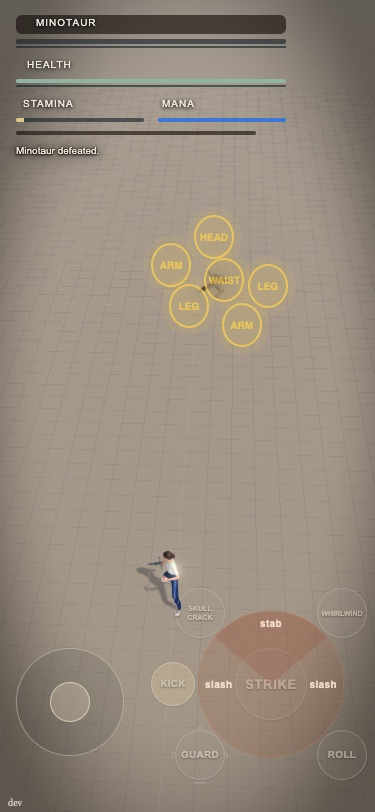
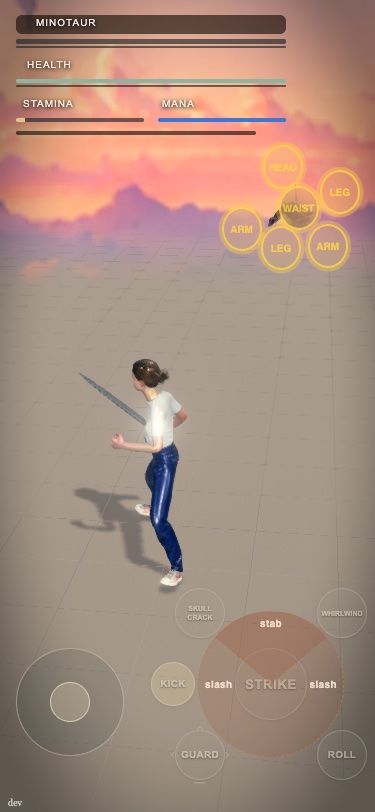
fx: skyview B is the default (stage.json views.default), ?skyview=v1 = the look before; melt tuned to the new camera, grid melts in the open ground, named floor order, honest comments, stills

diff --git a/src/fight/skyview.ts b/src/fight/skyview.ts
@@ -1,21 +1,28 @@
-// How much of the skyline shows (Dom 2026-10-27: love the image, the sand fills the screen, the camera stays as it is). Three link-chosen looks, every number a
-// row in data/stage.json `skyline.views` (validated by src/sim/validate.js checkSkyline): ?skyview=a fogs the far sand into the strip's horizon haze, ?skyview=b
-// melts the far sand to nothing (alpha) over a distance band so the lowered strip's cloud sea shows where it ends, ?skyview=c only lowers the strip. No link
-// = today's look, nothing here runs. The sim, the camera and the fight's framing are not touched: this is the fog, the floor's alpha and the strip's height.
+// How much of the skyline shows (Dom 2026-10-27: love the image, the sand fills the screen, the camera stays as it is; he picked B). Link-chosen looks, every number a
+// row in data/stage.json `skyline.views` (validated by src/sim/validate.js checkSkyline): `default` (B) is what the page draws with no link: the far sand melts to nothing, by
+// angle below the horizon, and the strip is lowered so its cloud sea shows where the sand ends. ?skyview=a only fogs the far sand into the strip's horizon haze, ?skyview=c only
+// lowers the strip, ?skyview=v1 (`v1` row) is the look before this: no melt, no lowering. The sim, the camera and the fight's framing are not touched: this is the fog, the
+// floor's alpha and the strip's height.
 import * as THREE from 'three';
 import STAGE from '../../data/stage.json' with { type: 'json' };
+import { SKYLINE_ORDER } from './skyline.ts';
 
 export type SkyViews = typeof STAGE.skyline.views;
 export type SkyView = SkyViews['variants']['a'];
 export const SKYVIEWS: SkyViews = STAGE.skyline.views;
 
-/** The variant the link asks for (?skyview=a|b|c), or null = today's look (no link, an unknown word, or a variant the rows do not have). */
+/** The floor draws right after the strip (which is first, SKYLINE_ORDER) and before every other transparent, so particles and trails stay over it. */
+export const FLOOR_ORDER = SKYLINE_ORDER + 100;
+
+/** The look the link asks for: its variant (?skyview=a|b|c), null for the look before this (?skyview=v1), the row's `default` variant for no link or a word the rows do not have. */
 export function skyViewFor(search: string, rows: SkyViews = SKYVIEWS): SkyView | null {
-  const id = new URLSearchParams(search).get(rows.query);
-  return id !== null && Object.prototype.hasOwnProperty.call(rows.variants, id) ? (rows.variants as Record<string, SkyView>)[id] : null;
+  const id = new URLSearchParams(search).get(rows.query), variants = rows.variants as Record<string, SkyView>;
+  if (id === rows.v1) return null;
+  if (id !== null && Object.prototype.hasOwnProperty.call(variants, id)) return variants[id];
+  return rows.default === rows.v1 ? null : variants[rows.default];
 }
 
-/** Variant A / B fog: the colour (the strip's horizon haze) and the density; a 0 density or an empty colour leaves the scene's own. */
+/** The haze: the colour (the strip's horizon haze) and the density a variant fogs the far sand with; a 0 density or an empty colour leaves the scene's own. */
 export function applyFog(scene: THREE.Scene, view: SkyView): void {
   const fog = scene.fog;
   if (!(fog instanceof THREE.FogExp2)) return;
@@ -30,33 +37,44 @@ export function fadeAlpha(depression: number, start: number, end: number): numbe
   return t * t * (3 - 2 * t);
 }
 
+export type FloorFade = {
+  /** Called every frame with the camera's place: the melt is measured from the eye. */
+  move(eye: THREE.Vector3): void;
+  /** Melts every floor part under `parts` that is not melted yet (the zone's open ground swaps in a longer grid after the scene is built). */
+  adopt(parts: THREE.Object3D): void;
+};
+
 /**
- * Melts a floor material (the sand, the grid) to transparent by how far below the horizon the eye sees it: solid at `fadeStartDegrees` and steeper, gone at `fadeEndDegrees`
- * and shallower. An angle, not a distance, so the melt stays where the lowered strip's bottom edge is however high the camera stands (the free walk lifts it). Returns the
- * per-frame call that moves the eye; null when the variant has no band. The floor draws right after the strip and before every other transparent, so particles and trails stay over it.
+ * Melts the floor parts (the sand, the grid) to transparent by how far below the horizon the eye sees them: solid at `fadeStartDegrees` and steeper, gone at `fadeEndDegrees`
+ * and shallower. An angle, not a distance, so the melt stays at the lowered strip's bottom edge however high the camera stands (the free walk lifts it), and the floor near the
+ * hero keeps its sand and grid. World positions, so the zone's follow-the-hero floor melts the same. null when the variant has no band.
  */
-export function fadeFloor(parts: THREE.Object3D, view: SkyView, order: number): ((eye: THREE.Vector3) => void) | null {
+export function fadeFloor(parts: THREE.Object3D, view: SkyView, order: number = FLOOR_ORDER): FloorFade | null {
   if (!(view.fadeStartDegrees > view.fadeEndDegrees)) return null;
-  const eye = { value: new THREE.Vector3() }, band = { value: new THREE.Vector2(view.fadeStartDegrees, view.fadeEndDegrees) };
-  parts.userData.skyviewFade = { eye, band };   // read by the stills' probe only
-  parts.traverse((o) => {
-    const m = (o as THREE.Mesh).material as THREE.Material | undefined;
-    if (!m || Array.isArray(m)) return;
-    m.transparent = true;
-    o.renderOrder = order;
-    const before = m.onBeforeCompile;
-    m.onBeforeCompile = (shader, renderer) => {
-      before?.call(m, shader, renderer);
-      shader.uniforms.fadeEye = eye; shader.uniforms.fadeBand = band;
-      shader.vertexShader = shader.vertexShader
-        .replace('void main() {', 'varying vec3 vFadeWorld;\nvoid main() {')
-        .replace('#include <project_vertex>', '#include <project_vertex>\n  vFadeWorld = (modelMatrix * vec4(transformed, 1.0)).xyz;');
-      shader.fragmentShader = shader.fragmentShader
-        .replace('void main() {', 'uniform vec3 fadeEye;\nuniform vec2 fadeBand;\nvarying vec3 vFadeWorld;\nvoid main() {')
-        .replace('#include <opaque_fragment>', '#include <opaque_fragment>\n  float fadeDepression = degrees(atan(max(fadeEye.y - vFadeWorld.y, 0.0001), length(vFadeWorld.xz - fadeEye.xz)));\n  gl_FragColor.a *= smoothstep(fadeBand.y, fadeBand.x, fadeDepression);');
-    };
-    m.customProgramCacheKey = () => `skyview-fade-${view.fadeStartDegrees}-${view.fadeEndDegrees}`;
-    m.needsUpdate = true;
-  });
-  return (e) => { eye.value.copy(e); };
+  const eye = { value: new THREE.Vector3() }, band = { value: new THREE.Vector2(view.fadeStartDegrees, view.fadeEndDegrees) }, done = new WeakSet<THREE.Material>();
+  const adopt = (root: THREE.Object3D) => {
+    root.userData.skyviewFade = { eye, band };   // read by the stills' probe only
+    root.traverse((o) => {
+      const m = (o as THREE.Mesh).material as THREE.Material | undefined;
+      if (!m || Array.isArray(m) || done.has(m)) return;
+      done.add(m);
+      m.transparent = true;
+      o.renderOrder = order;
+      const before = m.onBeforeCompile;
+      m.onBeforeCompile = (shader, renderer) => {
+        before?.call(m, shader, renderer);
+        shader.uniforms.fadeEye = eye; shader.uniforms.fadeBand = band;
+        shader.vertexShader = shader.vertexShader
+          .replace('void main() {', 'varying vec3 vFadeWorld;\nvoid main() {')
+          .replace('#include <project_vertex>', '#include <project_vertex>\n  vFadeWorld = (modelMatrix * vec4(transformed, 1.0)).xyz;');
+        shader.fragmentShader = shader.fragmentShader
+          .replace('void main() {', 'uniform vec3 fadeEye;\nuniform vec2 fadeBand;\nvarying vec3 vFadeWorld;\nvoid main() {')
+          .replace('#include <opaque_fragment>', '#include <opaque_fragment>\n  float fadeDepression = degrees(atan(max(fadeEye.y - vFadeWorld.y, 0.0001), length(vFadeWorld.xz - fadeEye.xz)));\n  gl_FragColor.a *= smoothstep(fadeBand.y, fadeBand.x, fadeDepression);');
+      };
+      m.customProgramCacheKey = () => `skyview-fade-${view.fadeStartDegrees}-${view.fadeEndDegrees}`;
+      m.needsUpdate = true;
+    });
+  };
+  adopt(parts);
+  return { move: (e) => { eye.value.copy(e); }, adopt };
 }

diff --git a/src/sim/validate.js b/src/sim/validate.js
@@ -252,7 +252,9 @@ export function validateFile(name, json) {
   return errors;
 }
 
-// data/stage.json `skyline` (src/fight/skyline.ts): the 360-degree backdrop. Ranges keep it inside the camera's far plane (180 m) and the file a plain asset name.
+// data/stage.json `skyline` (src/fight/skyline.ts): the 360-degree backdrop. Ranges keep it inside the camera's BASE far plane (180 m, src/fight/scene.ts; the zone's open ground only
+// lengthens it, data/zone-ground.json cameraFarMetres 420, test/skyview.test.mjs pins both) and the file a plain asset name. SKYLINE_RIM_LIMIT is that 180 less a margin.
+export const SKYLINE_RIM_LIMIT = 175;
 export const SKYLINE_KEYS = ['about', 'on', 'query', 'v1', 'file', 'seamOverlapPx', 'quality', 'radius', 'heightMetres', 'horizonFraction', 'yawDegrees', 'brightness', 'fadeSeconds', 'loadAfterFirstFrameMs', 'views'];
 function checkSkyline(s) {
   const e = [], at = (p, m) => e.push(`stage.skyline.${p}: ${m}`);
@@ -264,7 +266,7 @@ function checkSkyline(s) {
   const rng = (k, lo, hi, int) => { if (!Number.isFinite(s[k]) || s[k] < lo || s[k] > hi || (int && !Number.isInteger(s[k]))) at(k, `must be ${int ? 'an integer' : 'a finite number'} in ${lo}..${hi}`); };
   rng('seamOverlapPx', 0, 2000, true); rng('quality', 40, 100, true); rng('radius', 20, 160); rng('heightMetres', 5, 400); rng('horizonFraction', 0.5, 1);
   rng('yawDegrees', -360, 360); rng('brightness', 0.1, 1.5); rng('fadeSeconds', 0, 10); rng('loadAfterFirstFrameMs', 0, 10000, true);
-  if (Number.isFinite(s.radius) && Number.isFinite(s.heightMetres) && Number.isFinite(s.horizonFraction) && Math.hypot(s.radius, Math.max(s.horizonFraction, 1 - s.horizonFraction) * s.heightMetres) > 175) at('radius', 'the cylinder rim must stay inside the camera far plane (180 m)');
+  if (Number.isFinite(s.radius) && Number.isFinite(s.heightMetres) && Number.isFinite(s.horizonFraction) && Math.hypot(s.radius, Math.max(s.horizonFraction, 1 - s.horizonFraction) * s.heightMetres) > SKYLINE_RIM_LIMIT) at('radius', 'the cylinder rim must stay inside the camera far plane (180 m)');
   e.push(...checkSkyViews(s));
   return e;
 }
@@ -274,10 +276,13 @@ export const SKYVIEW_KEYS = ['fogColor', 'fogDensity', 'fadeStartDegrees', 'fade
 function checkSkyViews(s) {
   const e = [], at = (p, m) => e.push(`stage.skyline.views.${p}: ${m}`), v = s.views;
   if (v === null || typeof v !== 'object' || Array.isArray(v)) return ['stage.skyline.views: must be an object'];
-  for (const k of Object.keys(v)) if (!['about', 'query', 'variants'].includes(k)) at(k, 'unknown key');
+  for (const k of Object.keys(v)) if (!['about', 'query', 'v1', 'default', 'variants'].includes(k)) at(k, 'unknown key');
   if (typeof v.query !== 'string' || !/^[a-z0-9]+$/i.test(v.query) || v.query === s.query) at('query', 'must be a plain word other than skyline.query');
+  if (typeof v.v1 !== 'string' || !/^[a-z0-9]+$/i.test(v.v1)) at('v1', 'must be a plain word (the link value for the look before the variants)');
   const vs = v.variants;
   if (vs === null || typeof vs !== 'object' || Array.isArray(vs)) return [...e, 'stage.skyline.views.variants: must be an object'];
+  if (typeof v.default !== 'string' || !(v.default === v.v1 || Object.prototype.hasOwnProperty.call(vs, v.default))) at('default', 'must be one of the variant ids, or the v1 word (the look before)');
+  if (typeof v.v1 === 'string' && Object.prototype.hasOwnProperty.call(vs, v.v1)) at('v1', 'must not also be a variant id');
   for (const [id, w] of Object.entries(vs)) {
     const p = `variants.${id}`, bad = (k, m) => at(`${p}.${k}`, m);
     if (!/^[a-z0-9]+$/i.test(id)) at(p, 'the id must be a plain word');
@@ -289,7 +294,7 @@ function checkSkyViews(s) {
     if (!Number.isFinite(w.heightMetres) || (w.heightMetres !== 0 && (w.heightMetres < 5 || w.heightMetres > 400))) bad('heightMetres', 'must be 0 (the strip row\'s) or a number in 5..400');
     if (Number.isFinite(w.fadeStartDegrees) && Number.isFinite(w.fadeEndDegrees) && !(w.fadeStartDegrees === 0 && w.fadeEndDegrees === 0) && !(w.fadeStartDegrees > w.fadeEndDegrees)) bad('fadeStartDegrees', 'must be above fadeEndDegrees (or both 0 = off)');
     const h = w.heightMetres > 0 ? w.heightMetres : s.heightMetres;
-    if (Number.isFinite(s.radius) && Number.isFinite(h) && Number.isFinite(s.horizonFraction) && Number.isFinite(w.dropMetres) && Math.hypot(s.radius, Math.max(Math.abs(s.horizonFraction * h - w.dropMetres), Math.abs((1 - s.horizonFraction) * h + w.dropMetres))) > 175) bad('dropMetres', 'the strip, lowered, must keep its rim inside the camera far plane (180 m)');
+    if (Number.isFinite(s.radius) && Number.isFinite(h) && Number.isFinite(s.horizonFraction) && Number.isFinite(w.dropMetres) && Math.hypot(s.radius, Math.max(Math.abs(s.horizonFraction * h - w.dropMetres), Math.abs((1 - s.horizonFraction) * h + w.dropMetres))) > SKYLINE_RIM_LIMIT) bad('dropMetres', 'the strip, lowered, must keep its rim inside the camera far plane (180 m)');
   }
   return e;
 }

diff --git a/src/fight/scene.ts b/src/fight/scene.ts
@@ -141,7 +141,7 @@ export function createScene(
   scene.background = new THREE.Color(theme.fog);
   scene.fog = new THREE.FogExp2(theme.fog, theme.fogDensity);
   const pageSearch = typeof location === 'undefined' ? '' : location.search;
-  const skyView = skylineOn(pageSearch) ? skyViewFor(pageSearch) : null;   // ?skyview=a|b|c (data/stage.json skyline.views); none = today's look, nothing below runs
+  const skyView = skylineOn(pageSearch) ? skyViewFor(pageSearch) : null;   // data/stage.json skyline.views: no link = its `default` (B); ?skyview=a|c; ?skyview=v1 = the look before it, nothing below runs; ?sky=v1 = the flat sky
   if (skyView) applyFog(scene, skyView);
   const skyline = createSkyline(scene, pageSearch, SKYLINE, undefined, skyView);   // data/stage.json skyline: the 360-degree sunset strip, fetched after the first frame; ?sky=v1 = the flat sky above, nothing built
   let environmentTarget: THREE.WebGLRenderTarget | undefined;
@@ -231,7 +231,7 @@ export function createScene(
     missileFx = createMissileFx(scene),   // sandbox-mech missiles: the bolt in flight, nothing while none flies
     impactFx = createImpactFx(scene),   // a flash + ground ring per contact row (hit-stop-defs.json flash/ring/tint columns; a row without them draws nothing)
     miasmaMark = marksFlag(globalThis.location?.search ?? '') ? createMiasmaMark(scene) : null;   // ?look=marks (miasma-mark.ts)
-  const floorFade = skyView ? fadeFloor(arena.group, skyView, -900) : null;   // ?skyview=b: the far sand melts to nothing (skyview.ts); null = the floor as it was
+  const floorFade = skyView ? fadeFloor(arena.group, skyView) : null;   // B: the far sand and grid melt to nothing by angle (skyview.ts); null = the floor as it was
   missileFx.warm(() => renderer.compile(scene, camera));   // sandbox heal: its shader programs and its light are compiled now, not at the first cast
   let groundSnap = 0, groundAt = { x: 0, z: 0 };   // the zone's endless ground (openGround below); 0 = the floor stays on the pit
   arena.group.scale.setScalar(PLAY_SCALE); { const ring = arena.group.getObjectByName('boundary'); if (ring) ring.visible = PLAY_SCALE === 1; }   // from the first frame; render() follows a new fight's circle
@@ -717,7 +717,7 @@ export function createScene(
     liveFoes(list: readonly { id: string; practice: Practice; spawn?: SpawnRef }[]) { liveList = list; },
     setWiden(k: number) { frameWiden = k; },   // main.ts every frame: how far the lock camera backs off for the attackers on him (data/respawn.json attackers.camera); 1 = none
     get liveFoeCount() { return [...liveFoes.values()].filter((l) => l.group.visible).length; },
-    openGround(sizing: GroundSizing) { drawOpenGround(arena.group, camera, sizing); groundSnap = sizing.snap; if (groundSnap > 0) scene.add(sun.target); },
+    openGround(sizing: GroundSizing) { drawOpenGround(arena.group, camera, sizing); groundSnap = sizing.snap; floorFade?.adopt(arena.group); if (groundSnap > 0) scene.add(sun.target); },
     get groundAnchor() { return groundAt; },   // the point the endless floor is centred on (the hero's place, snapped): the hook a camera-following backdrop can read; openGround (main.ts, the zone only, data/zone-ground.json) turns the follow on, ?postkill=v1 / ?ground=v1 never call it
     heroFall(seconds: number) { fallSeconds = seconds; },   // the hero's death fall, seconds (0 = none: he keeps the pose the sim left)
     stopTour() {
@@ -1175,7 +1175,7 @@ export function createScene(
       const specialDim = runtimeSpecial?.exposure ?? (specialFx as ModeFx | undefined)?.exposure ?? 1;   // Nyx's Nightfall drain
       if (dip > 0 || specialDim !== 1) renderer.toneMappingExposure = exposure * (dip > 0 ? 1 - DIP_DEPTH * Math.min(1, dip / (DIP_FRAMES - 1)) : 1) * specialDim;   // the kill dip held then eased back
       if (specialId) previewLighting.apply(specialDim);
-      floorFade?.(camera.position);
+      floorFade?.move(camera.position);
       skyline?.update(camera.position, dt);   // the backdrop follows the eye (skyline.ts); the camera was placed by rig.update above
       syncIdleFoes(practice, dt);
       syncLiveFoes(dt);

diff --git a/src/fight/skyline.ts b/src/fight/skyline.ts
@@ -7,6 +7,8 @@ import STAGE from '../../data/stage.json' with { type: 'json' };
 import { afterFirstFrame } from '../late-art.ts';
 import type { SkyView } from './skyview.ts';
 
+/** The strip draws first of all the transparents (skyview.ts FLOOR_ORDER sits just after it). */
+export const SKYLINE_ORDER = -1000;
 export type SkylineRow = typeof STAGE.skyline;
 export const SKYLINE: SkylineRow = STAGE.skyline;
 
@@ -44,7 +46,7 @@ export function createSkyline(
   });
   const mesh = new THREE.Mesh(new THREE.CylinderGeometry(row.radius, row.radius, height, 96, 1, true), material);
   mesh.name = 'skyline';
-  mesh.renderOrder = -1000;   // first among the transparent draws, so every particle and trail composites over it
+  mesh.renderOrder = SKYLINE_ORDER;   // first among the transparent draws, so every particle and trail composites over it
   mesh.frustumCulled = false;
   mesh.rotation.y = THREE.MathUtils.degToRad(row.yawDegrees);
   mesh.visible = false;
